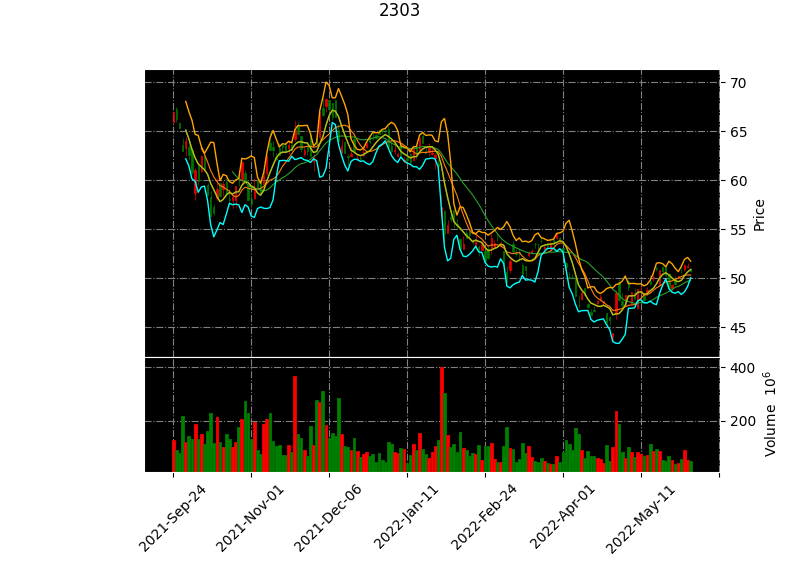
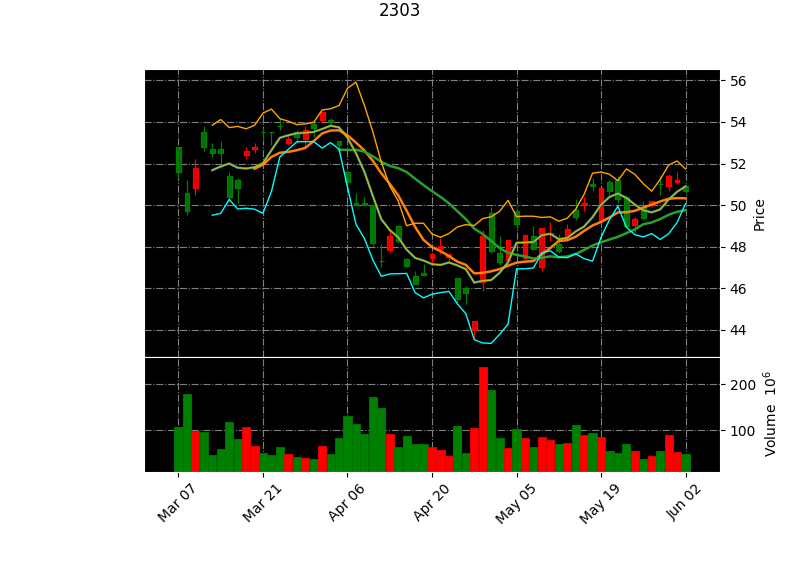
需求追加

diff --git a/test.py b/test.py
@@ -111,7 +111,7 @@ def go():
     canvas.delete("info")
     stock_num = entry0.get()
 
-    start = datetime.datetime(2021,9,24)
+    start = datetime.datetime(2022,3,5)
     stock_df = pdr.DataReader(stock_num+'.TW', 'yahoo', start=start)
     if(stock_df is not None):
         stock_df["close"] = stock_df["Close"]
